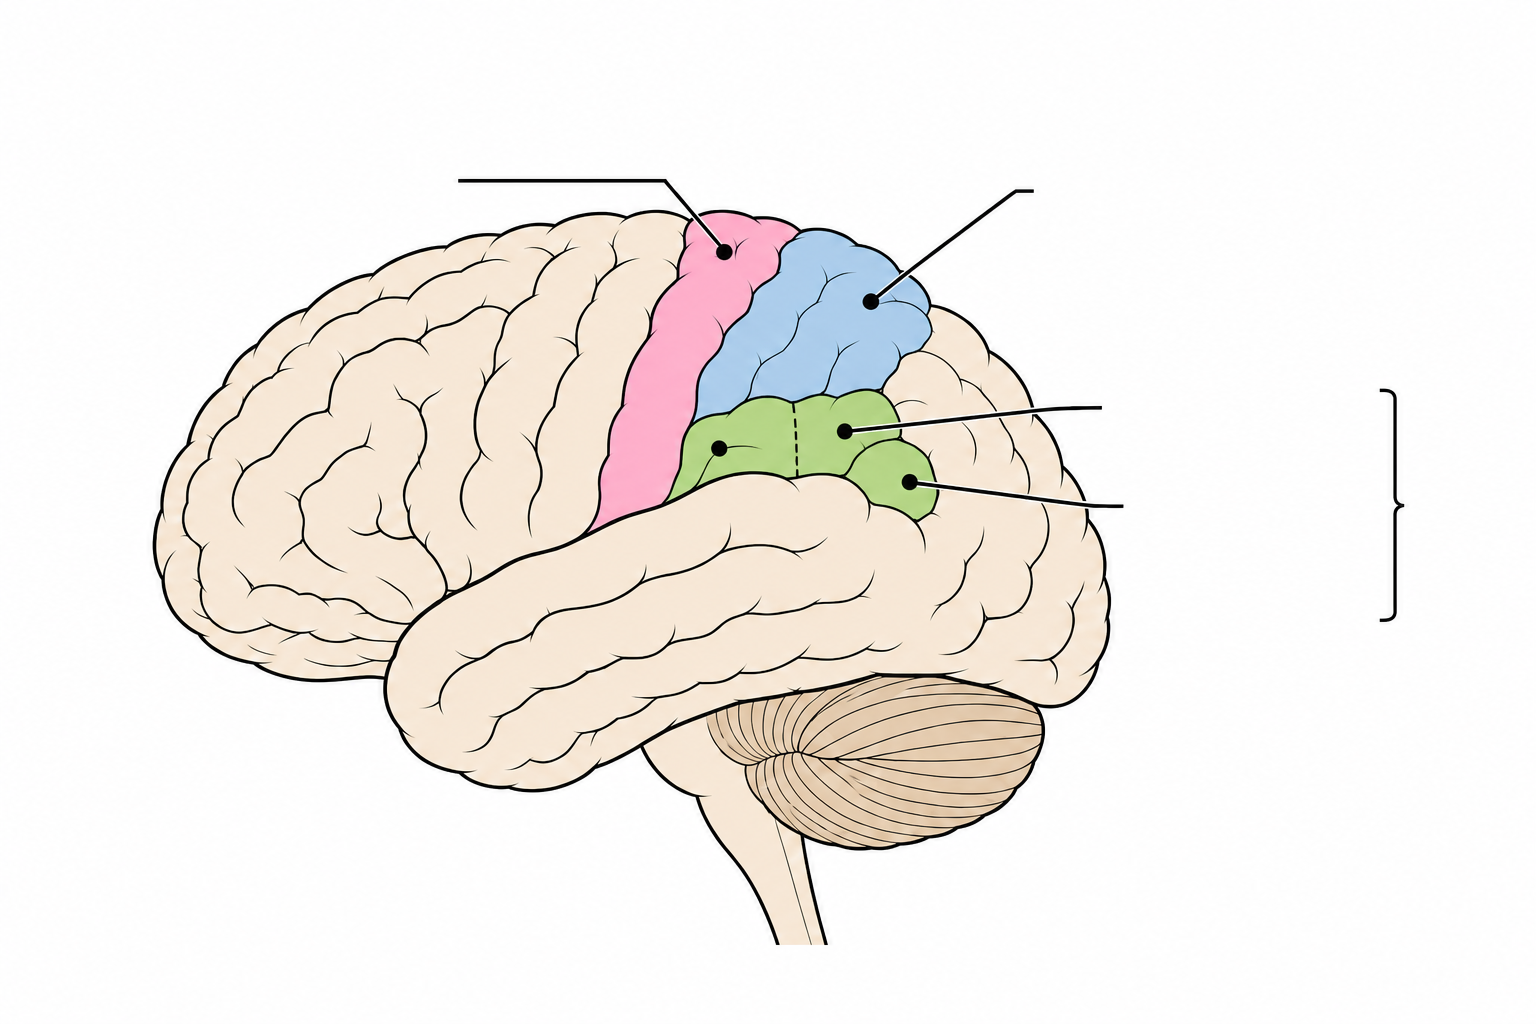
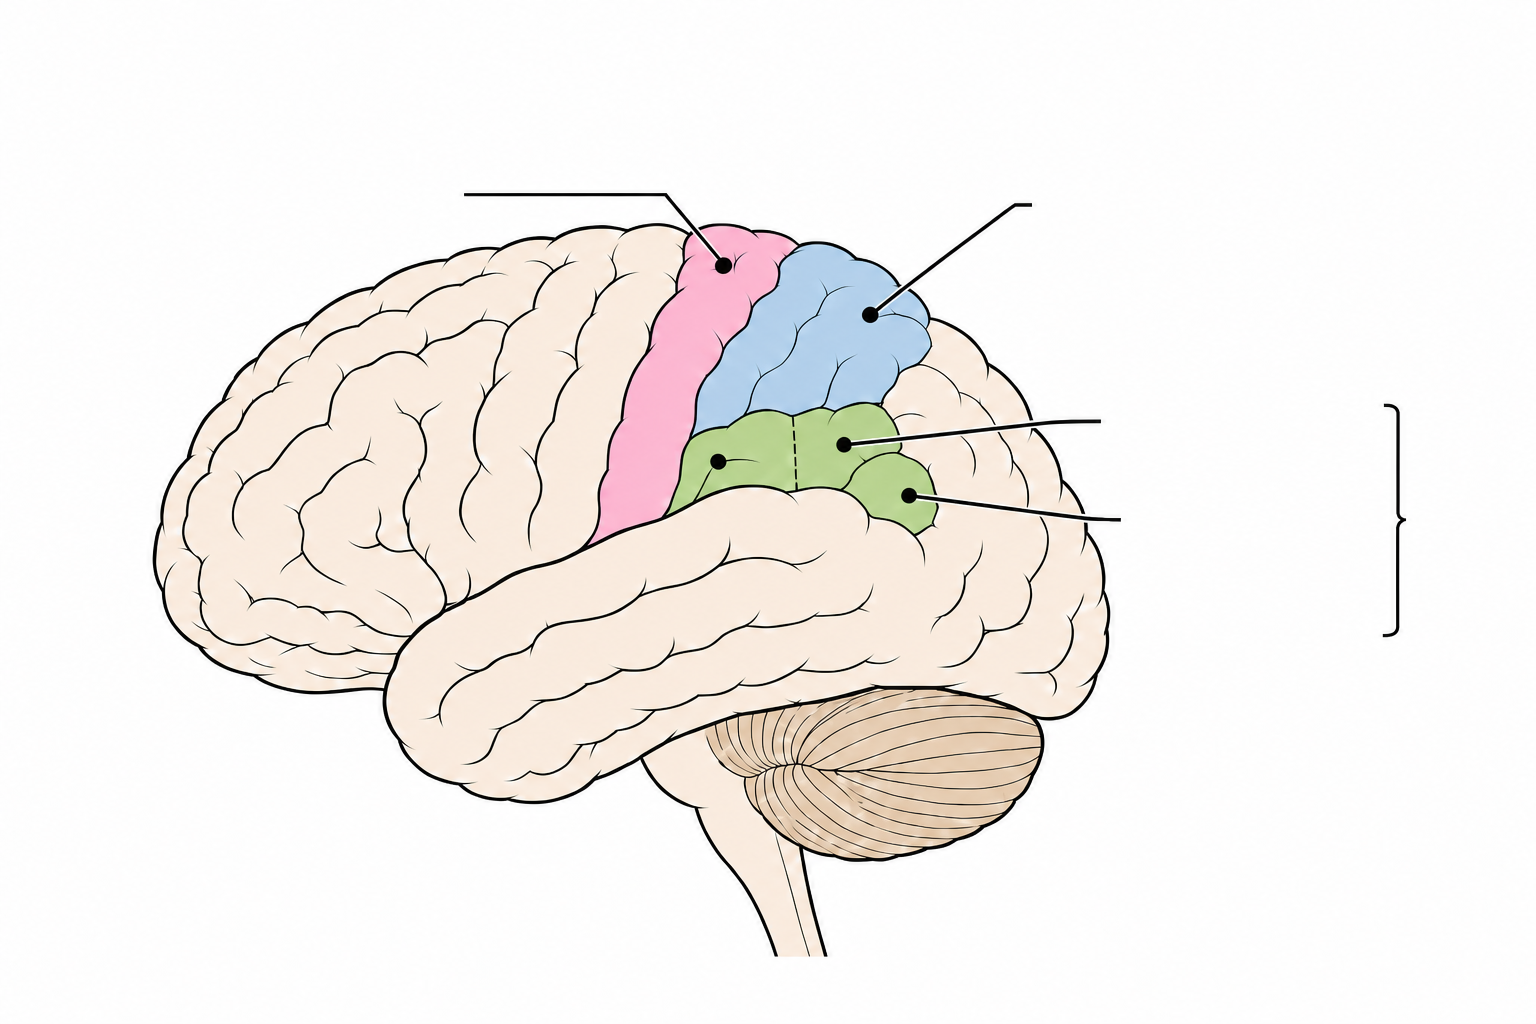
Fix ch02 parietal labels: supra-marginal left, angular right.

diff --git a/data/flash/ch02.js b/data/flash/ch02.js
@@ -98,7 +98,7 @@
     { id: "FC-ANAT-02-S17", chapter: "02", priority: "P1", kind: "schema", front: "Schéma — Face médiale", back: "Face médiale", frontImg: "matiere/anatomie/img/ch02/blank/22_face_mediale.png?v=fc2k", backImg: "matiere/anatomie/img/ch02/22_face_mediale.png?v=fc2k" },
     { id: "FC-ANAT-02-S18", chapter: "02", priority: "P1", kind: "schema", front: "Schéma — Face inférieure", back: "Face inférieure", frontImg: "matiere/anatomie/img/ch02/blank/23_face_inferieure.png?v=fc2l", backImg: "matiere/anatomie/img/ch02/23_face_inferieure.png?v=fc2l" },
     { id: "FC-ANAT-02-S19", chapter: "02", priority: "P1", kind: "schema", front: "Schéma — Gyrus frontaux", back: "Gyrus frontaux", frontImg: "matiere/anatomie/img/ch02/blank/26_frontal_gyrus.png", backImg: "matiere/anatomie/img/ch02/26_frontal_gyrus.png" },
-    { id: "FC-ANAT-02-S20", chapter: "02", priority: "P1", kind: "schema", front: "Schéma — Régions pariétales", back: "Régions pariétales", frontImg: "matiere/anatomie/img/ch02/blank/28_parietal_regions.png?v=fc2m", backImg: "matiere/anatomie/img/ch02/28_parietal_regions.png?v=fc2m" },
+    { id: "FC-ANAT-02-S20", chapter: "02", priority: "P1", kind: "schema", front: "Schéma — Régions pariétales", back: "Régions pariétales", frontImg: "matiere/anatomie/img/ch02/blank/28_parietal_regions.png?v=fc2n", backImg: "matiere/anatomie/img/ch02/28_parietal_regions.png?v=fc2n" },
     { id: "FC-ANAT-02-S21", chapter: "02", priority: "P1", kind: "schema", front: "Schéma — Heschl et Wernicke", back: "Heschl et Wernicke", frontImg: "matiere/anatomie/img/ch02/blank/30_heschl_wernicke.png?v=fc2", backImg: "matiere/anatomie/img/ch02/30_heschl_wernicke.png?v=fc2" },
     { id: "FC-ANAT-02-S22", chapter: "02", priority: "P1", kind: "schema", front: "Schéma — Lobe occipital", back: "Lobe occipital", frontImg: "matiere/anatomie/img/ch02/blank/31_occipital.png?v=fc2g", backImg: "matiere/anatomie/img/ch02/31_occipital.png?v=fc2g" },
     { id: "FC-ANAT-02-S23", chapter: "02", priority: "P1", kind: "schema", front: "Schéma — Système limbique", back: "Système limbique", frontImg: "matiere/anatomie/img/ch02/blank/32_limbique.png", backImg: "matiere/anatomie/img/ch02/32_limbique.png" },

diff --git a/matiere/anatomie/ch02.html b/matiere/anatomie/ch02.html
@@ -421,7 +421,7 @@
       </div>
 
       <figure class="schema">
-        <img src="./img/ch02/28_parietal_regions.png?v=fc2m" alt="Régions pariétales" />
+        <img src="./img/ch02/28_parietal_regions.png?v=fc2n" alt="Régions pariétales" />
       </figure>
       <div class="label-quiz" data-labels='[["supra marginal","supra-marginal"],["angulaire"],["sillon post-central","post-central","post central"],["sillon intra-parietal","intra-parietal","intra parietal"],["pre-cuneus","precuneus","pre cuneus"],["gyrus cingulaire anterieur","cingulaire anterieur"],["gyrus cingulaire posterieur","cingulaire posterieur"]]'>
         <div class="course-cloze">
